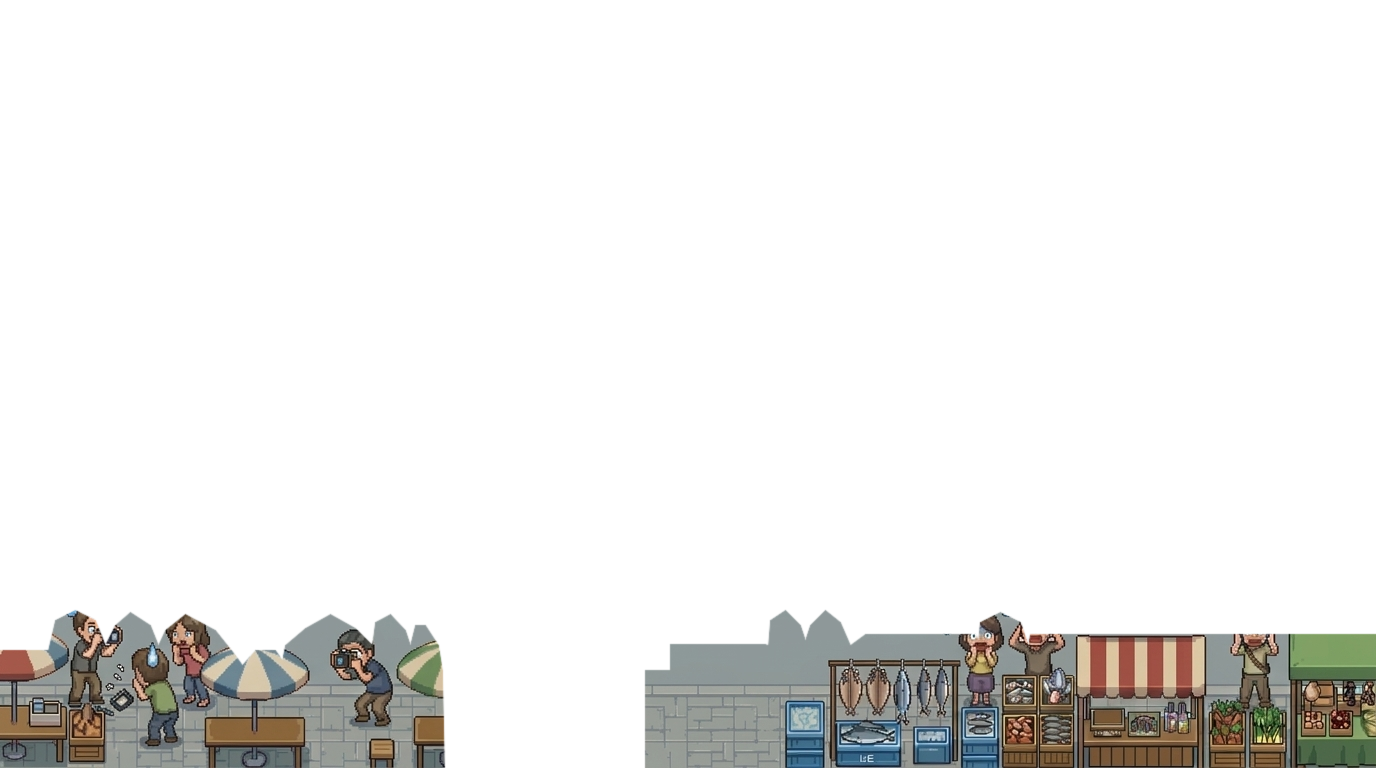
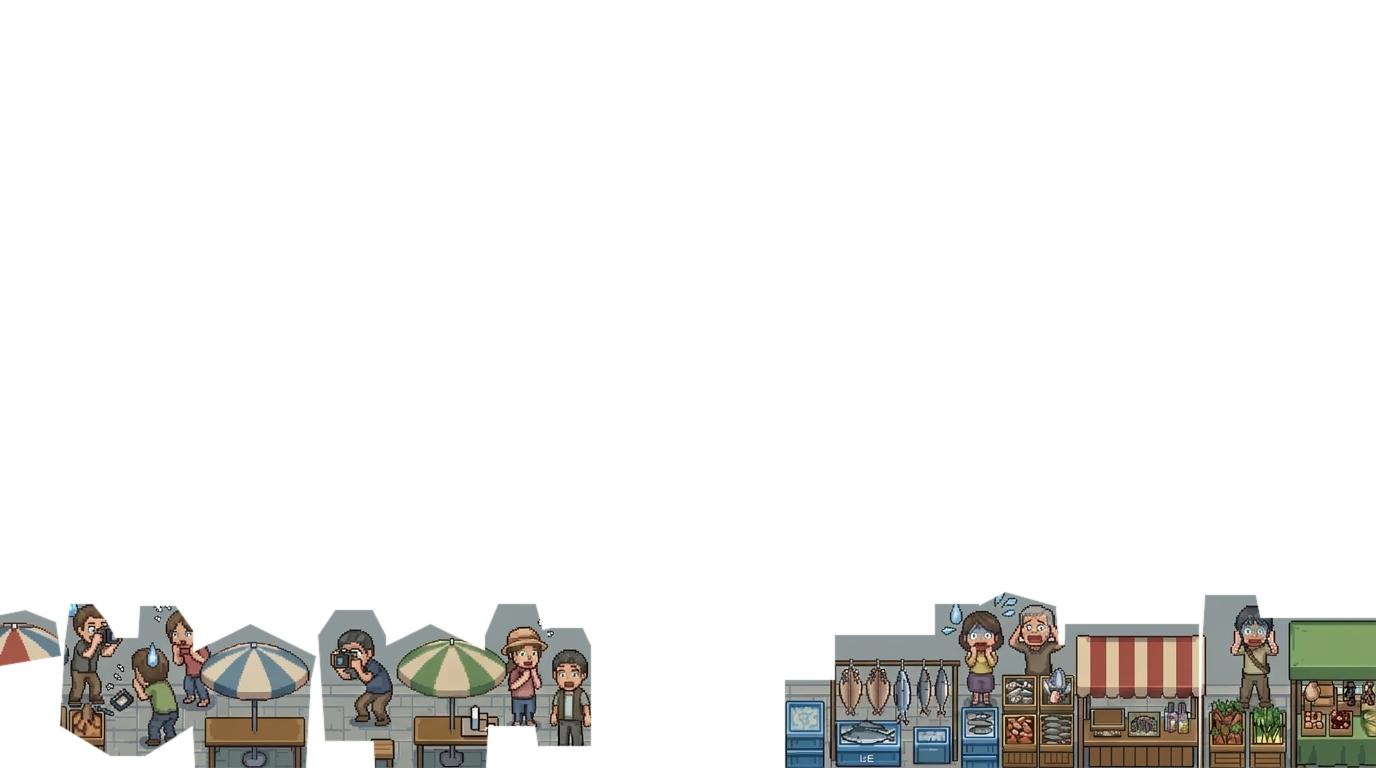
fix: 手前オブジェクトの背景石畳を完全透過化＆ミケ背後時のレイヤー半透明透過処理（0.55）とガイド表示を実装

Changed region(s): [[0.0, 0.7812, 0.4375, 1.0], [0.4688, 0.7812, 0.625, 1.0], [0.6562, 0.75, 1.0, 0.8438]]

diff --git a/js/game.js b/js/game.js
@@ -3110,8 +3110,29 @@ class AsaichiGame {
       : (this.images.mapForeground && this.images.mapForeground.complete && this.images.mapForeground.naturalWidth > 0 ? this.images.mapForeground : this.images.mapForegroundPeace);
 
     if (fgImg && fgImg.complete && fgImg.naturalWidth > 0) {
+      ctx.save();
       ctx.imageSmoothingEnabled = false;
+
+      // 透過処理：プレイヤー（ミケ）が手前オブジェクト周辺（y >= 580）にいる時は
+      // ミケが半分埋もれたり隠れて見失わないよう、しっかり半透明（0.55）に透過して透けて見えるようにする！
+      // 通常時も軽やかな半透明（0.82）で重ねることで、重苦しい遮蔽感をなくす
+      const isPlayerBehind = (this.player && this.player.y >= 580);
+      ctx.globalAlpha = isPlayerBehind ? 0.55 : 0.82;
+
       ctx.drawImage(fgImg, 0, 0, this.worldW, this.worldH);
+      ctx.restore();
+
+      // ミケが手前オブジェクトの裏側にいるときは、頭上に「🐾」ガイドを小さく表示して位置を完全把握
+      if (isPlayerBehind && this.player) {
+        ctx.save();
+        ctx.textAlign = 'center';
+        ctx.font = 'bold 13px sans-serif';
+        ctx.fillStyle = '#fef08a';
+        ctx.shadowColor = 'rgba(0,0,0,0.85)';
+        ctx.shadowBlur = 4;
+        ctx.fillText('🐾', this.player.x, this.player.y - 20);
+        ctx.restore();
+      }
     }
   }
 

diff --git a/index.html b/index.html
@@ -192,8 +192,8 @@
   </div>
 
   <!-- 分割スクリプト群（サウンド、定数、ゲーム本体） -->
-  <script src="js/sound.js?v=20260928_mobile_landscape_opt"></script>
-  <script src="js/constants.js?v=20260928_mobile_landscape_opt"></script>
-  <script src="js/game.js?v=20260928_fullscreen_opt"></script>
+  <script src="js/sound.js?v=20260928_foreground_transparency_fix"></script>
+  <script src="js/constants.js?v=20260928_foreground_transparency_fix"></script>
+  <script src="js/game.js?v=20260928_foreground_transparency_fix"></script>
 </body>
 </html>
